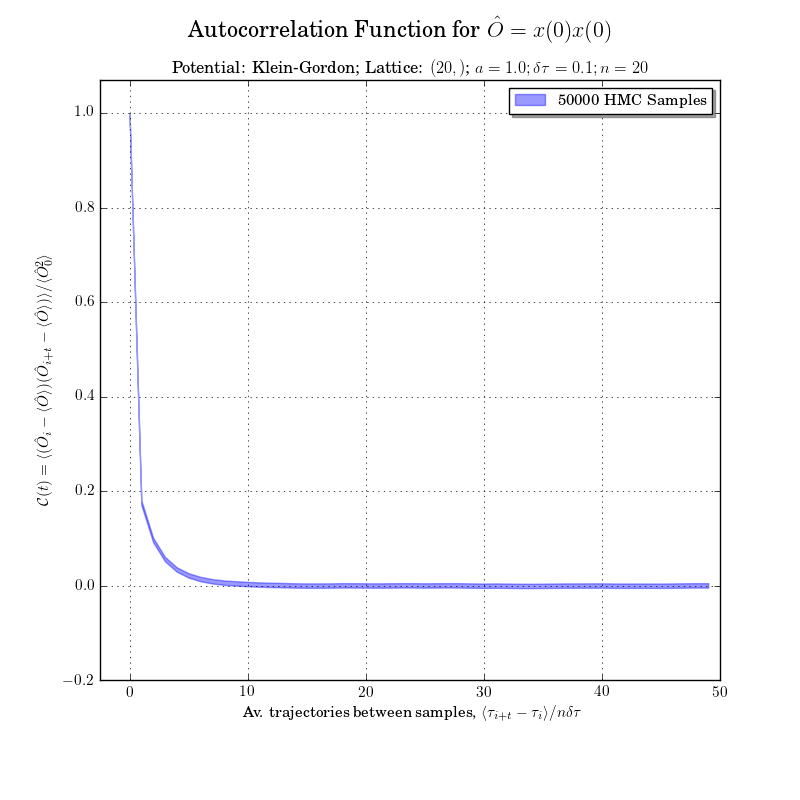
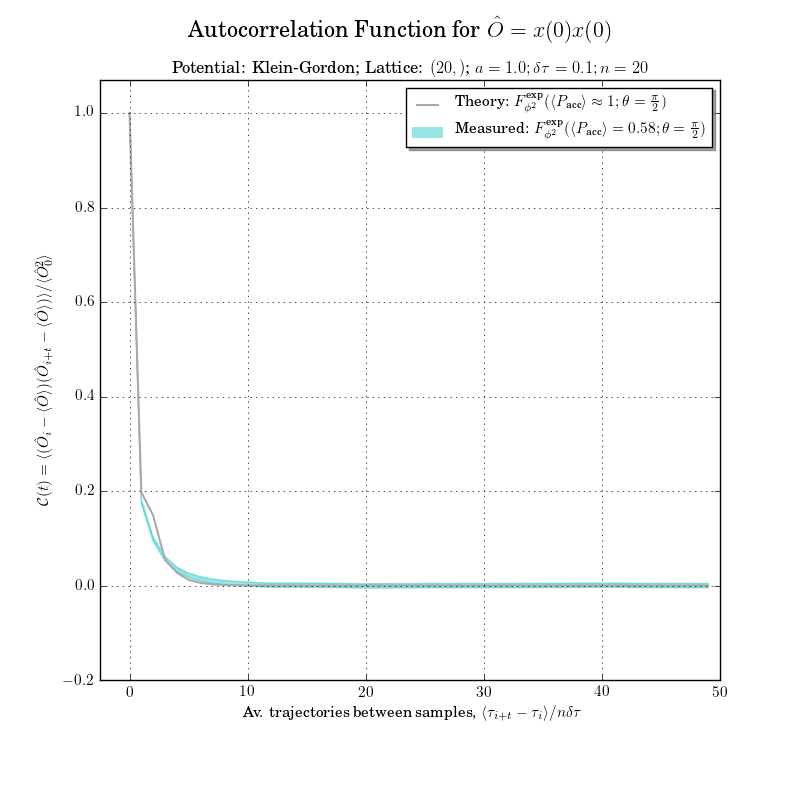
misc bug fxes
Former-commit-id: 71392d72723f1e0b7ab8e5e56c75bc3ffaf60ba9

diff --git a/theory/autocorrelations.py b/theory/autocorrelations.py
@@ -215,11 +215,20 @@ class M2_Exp(object):
         """
         
         if theta == .5*pi:
+            b2 = b**2
+            b3 = b**3
+            m2 = m**2
+            phi = m*tau
+            phi2 = phi**2
+            r2 = r**2
+            r3 = r**3
+            
             if pa > self.p_thresh:
-                numerator   = b**3 + 2*b**2*b + b*b**2 + 2*m**2*b
-                denominator = b**3 + 2*b*b**2 +(b**2 + 4*m**2)*b + 2*m**2*b
+                numerator   = r3 + 2*r2*b + r*b2 + 2*m2*r
+                denominator = b3 + 2*r*b2 +(r2 + 4*m2)*b + 2*m2*r
             else:
-                ValueError("Not implemented yet")
+                numerator   = b2*r + 2*r2*b + (4 - 2*pa)*phi2*r + r3
+                denominator = b3 + 2*r*b2 + (4*phi2 + 1)*r2*b + 2*pa*r3*phi2
         else:
             if pa > self.p_thresh:
                 ValueError("Not implemented yet")
@@ -227,7 +236,7 @@ class M2_Exp(object):
                 ValueError("Not implemented yet")
         return numerator / denominator
     
-    def setRoots(self, b, tau, m, pa, theta=.5*pi, verbose = True):
+    def setRoots(self, b, tau, m, pa, theta=.5*pi, verbose = False):
         """Laplace-transformed function
         
         Required Inputs
@@ -248,35 +257,32 @@ class M2_Exp(object):
         self.pa = pa
         
         if theta == .5*pi:
+            m2 = m**2
+            phi = m*tau
+            phi2 = phi**2
+            r2 = r**2
+            r3 = r**3
+            
             if pa > self.p_thresh:
-                numerator = [r, 2*r**2, 2*m**2*r+r**3]
-                denominator = [1, 2*r, r**2 + 4*m**2, 2*m**2*r]
-                
-                self.res, self.poles, self.const = tf2zpk(numerator, denominator)
-                self.roots = self.poles[:-1]
-                if verbose:
-                    display = lambda t, a, b: '\n{}: {}'.format(t, a, b)
-                    print display('Residues', self.res)
-                    print display('Poles', self.poles)
-                    print display('Constant', self.k)
+                numerator = [r, 2*r2, 2*m2*r + r3]
+                denominator = [1, 2*r, r2 + 4*m2, 2*m2*r]
             else:
-                ValueError("Work in Progress")
-                
-                numerator = [r, 2*r**2, 2*m**2*r+r**3]
-                denominator = [1, 2*r, r**2 + 4*m**2, 2*m**2*r]
-                
-                self.res, self.poles, self.const = tf2zpk(numerator, denominator)
-                self.roots = self.poles[:-1]
-                if verbose:
-                    display = lambda t, a, b: '\n{}: {}'.format(t, a, b)
-                    print display('Residues', self.res)
-                    print display('Poles', self.poles)
-                    print display('Constant', self.k)
+                numerator = [r, 2*r2, (4 - 2*pa)*phi2*r + r3]
+                denominator = [1, 2*r, (4*phi2 + 1)*r2, 2*pa*r3*phi2]
+            
+            # get the roots
+            self.res, self.poles, self.const = tf2zpk(numerator, denominator)
+            self.roots = self.poles[:-1]
+            if verbose:
+                display = lambda t, x: '\n{}: {}'.format(t, x)
+                print display('Residues', self.res)
+                print display('Poles', self.poles)
+                print display('Constant', self.const)
         else:
             if pa > self.p_thresh:
-                ValueError("Not implemented yet")
+                raise ValueError("Not implemented yet: pa > p_thresh & theta != pi/2")
             else:
-                ValueError("Not implemented yet")
+                raise ValueError("Not implemented yet: pa < p_thresh & theta != pi/2")
         return self.roots
     
     def eval(self, t, tau=None, m=None, pa=None, theta=None):
@@ -300,8 +306,8 @@ class M2_Exp(object):
             if theta is not None: self.theta = theta
             self.setRoots(self.tau, self.m, self.pa, self.theta)
         
-        
-        if self.theta==.5*pi:
+        pa = self.pa
+        if self.theta == .5*pi:
             if pa > self.p_thresh:
                 b1, b2 = self.roots
                 m, r = self.m, self.r
@@ -331,13 +337,14 @@ class M2_Exp(object):
                 
                 ans = t1*exp(b1*t) + t2*exp(b2*t) + t3*exp(-(2.*r+b1+b2)*t)
                 ans *= r/d
+                return real(ans)
             else:
-                ValueError("Not implemented yet")
+                print pa
+                raise ValueError("Not implemented yet: pa < p_thresh & theta == pi/2")
         else:
             if pa > self.p_thresh:
-                ValueError("Not implemented yet")
+                raise ValueError("Not implemented yet: pa > p_thresh & theta != pi/2")
             else:
-                ValueError("Not implemented yet")
+                raise ValueError("Not implemented yet: pa < p_thresh & theta != pi/2")
         
-        return real(ans)
 #

diff --git a/results/common/acorr.py b/results/common/acorr.py
@@ -1,6 +1,7 @@
 import numpy as np
 import matplotlib.pyplot as plt
 from matplotlib import colors
+from matplotlib.patches import Rectangle
 import random
 from scipy import stats
 
@@ -9,7 +10,7 @@ from correlations import acorr, corr, errors
 from models import Basic_GHMC as Model
 from utils import saveOrDisplay, prll_map
 from plotter import Pretty_Plotter, PLOT_LOC
-from theory.autocorrelations import 
+from theory.autocorrelations import M2_Exp
 
 def plot(acns, lines, subtitle, op_name, save):
     """Plots the two-point correlation function
@@ -45,18 +46,19 @@ def plot(acns, lines, subtitle, op_name, save):
     
     clist = [i for i in colors.ColorConverter.colors if i != 'w']
     colour = (i for i in random.sample(clist, len(clist)))
-    for label, line in lines.iteritems():
-        c = next(colour)
-        ax[0].plot(*line, linestyle='-', linewidth=2., alpha=0.4, label=label, color = c)
-    
     for label, (x, y, e) in acns.iteritems():
         c = next(colour)
         # ax[0].plot(x, y, alpha=0.4, label=label, color = c)#, marker='x', s=3)
+        p2 = ax[0].add_patch(Rectangle((0, 0), 0, 0, fc=c, linewidth=0, alpha=.4, label=label))
         ax[0].fill_between(x, y-e, y+e, color=c, alpha=0.4, label=label)
         # ax[0].errorbar(x, y, yerr=e, c=c, ecolor='k', ms=3, fmt='o', alpha=0.5,
         #     label=label)
-    # for label, stem in stems.iteritems():
-    #     ax[0].stem(*stem, markerfmt='o', linefmt='k:', basefmt='k-',label=label)
+    
+    darkclist = [i for i in colors.cnames if 'dark' in i]
+    darkcolour = (i for i in random.sample(darkclist, len(darkclist)))
+    for label, line in lines.iteritems():
+        dc = next(darkcolour)
+        ax[0].plot(*line, linestyle='-', linewidth=1.5, alpha=1, label=label, color = dc)
     
     xi,xf = ax[0].get_xlim()
     ax[0].set_xlim(xmin=xi-0.05*(xf-xi)) # give a decent view of the first point
@@ -103,6 +105,8 @@ def main(x0, pot, file_name,
         pot.name, x0.shape, spacing, step_size, n_steps)
     
     print 'Running Model: {}'.format(file_name)
+    if not isinstance(separations, np.ndarray): separations = np.asarray(separations)
+    
     def coreFunc(a):
         """runs the below for an angle, a"""
         i,a = a
@@ -121,7 +125,12 @@ def main(x0, pot, file_name,
         # get parameters generated
         p = c.model.p_acc
         xx = c.op_mean
-        return xx, acns, acns_err, p
+        
+        m = M2_Exp(tau = step_size*n_steps, m = 1, pa = p)
+        f = m.eval(separations)
+        f /= f[0]
+        print 'Finished Running Model: {}'.format(file_name)
+        return xx, acns, acns_err, p, f
     
     # use multiprocessing
     out = lambda p,x,a: '> measured at angle:{:3.1f}: <x(0)x(0)> = {}; <P_acc> = {:4.2f}'.format(a,x,p)
@@ -132,16 +141,15 @@ def main(x0, pot, file_name,
     else:
         ans = prll_map(coreFunc, zip(range(al), mixing_angles), verbose=False)
     
-    xx, acns, acns_err, ps = zip(*ans) # unpack from multiprocessing
+    xx, acns, acns_err, ps, fs = zip(*ans) # unpack from multiprocessing
     
     print '\n'*al # hack to avoid overlapping!
     for p, x, a in zip(ps, xx, mixing_angles):
         print out(p,x,a)
     
     # create dictionary for plotting
-    acns = {l:(separations, y, e) for y,e,l in zip(acns, acns_err, angle_labels)}
-    
-    print 'Finished Running Model: {}'.format(file_name)
+    acns = {r'Measured: $F^{\text{exp}}_{\phi^2}(\langle P_{\text{acc}}\rangle'+r'={:4.2f}; '.format(p)+r'\theta = {})$'.format(l):(separations, y, e) for y,e,l,p in zip(acns, acns_err, angle_labels, ps)}
+    lines = {r'Theory: $F^{\text{exp}}_{\phi^2}(\langle P_{\text{acc}}\rangle \approx 1; '+r'\theta = {})$'.format(l):(separations, f) for f,l in zip(fs, angle_labels)}
     
     all_plot = {'acns':acns, 'lines':lines, 'subtitle':subtitle, 'op_name':op_name}
     store.store(all_plot, file_name, '_allPlot')

diff --git a/test/test_momentum.py b/test/test_momentum.py
@@ -29,24 +29,25 @@ class Test(object):
             outcome = passed,
             details = {
                 'original array: {}'.format(np.bmat([[p],[self.noise]])):[],
-                'rotation matrix: {}'.format(self.m.rot):[],
+                #'rotation matrix: {}'.format(self.m.rot):[],
                 'mix + flip: {}'.format(self.mixed):[],
                 'expected: {}'.format(expected):[]
                 })
             pass
         
-        p14 = np.mat([[1.,7.,-1., 400.]])
-        self.noise = np.mat([[0.1, 3., 1., -2]])
+        p14 = np.asarray([[1.,7.,-1., 400.]])
+        self.noise = np.asarray([[0.1, 3., 1., -2]])
         
-        expected_0 = np.mat([[-1., -7., 1., -400.,-0.1, -3., -1., 2.]])
-        expected_halfpi = np.mat([[-0.1, -3., -1., 2., 1., 7., -1., 400.]])
+        expected_0 = np.asarray([[-1., -7., 1., -400.,-0.1, -3., -1., 2.]])
+        expected_halfpi = np.asarray([[-0.1, -3., -1., 2., 1., 7., -1., 400.]])
         expected_pi = -expected_0
-        expected_quartpi = np.mat( [[-0.778, -7.071,  0.,   -281.428,
+        expected_quartpi = np.asarray( [[-0.778, -7.071,  0.,   -281.428,
                                       0.636,  2.828, -1.414, 284.257]])
-        expected_0 = expected_0.T
-        expected_halfpi = expected_halfpi.T
-        expected_pi = expected_pi.T
-        expected_quartpi = expected_quartpi.T
+        
+        expected_0 = expected_0.flatten()[:4]
+        expected_halfpi = expected_halfpi.flatten()[:4]
+        expected_pi = expected_pi.flatten()[:4]
+        expected_quartpi = expected_quartpi.flatten()[:4]
         
         self.mixed = self.m._refresh(p14, self.noise, theta = 0.)
         passed = (np.around(self.mixed, 3) == expected_0).all()
@@ -91,7 +92,7 @@ class Test(object):
             outcome = passed,
             details = {
                 'original array: {}'.format(np.bmat([[p],[self.m.noise]])):[],
-                'rotation matrix: {}'.format(self.m.rot):[],
+                # 'rotation matrix: {}'.format(self.m.rot):[],
                 'mix + flip: {}'.format(p_mixed):[],
                 })
         

diff --git a/models.py b/models.py
@@ -43,8 +43,14 @@ class Base(object):
             n_steps = self.n_steps,
             rand_steps = self.rand_steps)
         
+        if hasattr(self, 'accept_kwargs'):
+            if 'get_accept_rates' not in self.accept_kwargs:
+                self.accept_kwargs['get_accept_rates'] = True
+        else:
+            self.accept_kwargs = {'get_accept_rates':True}
+            
         self.sampler = Hybrid_Monte_Carlo(self.x0, dynamics, self.pot, self.rng,
-            accept_kwargs = {'get_accept_rates':True})
+            accept_kwargs = self.accept_kwargs)
         pass
 #
 class Basic_HMC(Init, Base):
@@ -70,6 +76,7 @@ class Basic_HMC(Init, Base):
             'n_steps': 20,
             'rand_steps':False
         }
+        
         self.initDefaults(kwargs)
         self._getInstances()
         pass

diff --git a/results/common/acceptance.py b/results/common/acceptance.py
@@ -1,5 +1,6 @@
 # -*- coding: utf-8 -*- 
 import numpy as np
+from scipy.special import j0, jn, erfc
 import matplotlib.pyplot as plt
 from matplotlib import colors
 import random
@@ -95,7 +96,7 @@ def main(x0, pot, file_name, n_rng, n_samples = 1000, n_burn_in = 25, step_size 
             n_steps :: int :: the number of LF steps
         """
         
-        model = Model(x0.copy(), pot, step_size=step_size, n_steps=n_steps)
+        model = Model(x0.copy(), pot, step_size=step_size, n_steps=n_steps, accept_kwargs={'get_delta_hs':True})
         model.sampler.accept.store_acceptance = True
         
         prob = 1.

diff --git a/hmc/common.py b/hmc/common.py
@@ -12,11 +12,16 @@ class Init(object):
         Expectations
             has an attribute of self.defaults to check against
         """
+        
         for k,v in self.defaults.iteritems():
             if k in kwargs: # use assigned values
                 setattr(self, k, kwargs[k])
             else: # use default values
-                setattr(self, k, self.defaults[k])
+                setattr(self, k, v)
+        
+        for k,v in kwargs.iteritems():
+            if k not in self.defaults:
+                setattr(self, k, v)
         pass
     
     def initArgs(self, args):

diff --git a/hmc/lattice.py b/hmc/lattice.py
@@ -128,7 +128,7 @@ def laplacian(lattice, position, a_power=0):
     lap = lap.sum()
     
     # multiply by approciate power of lattice spacing
-    if a_power: lap /= lattice.lattice_spacing**a_power
+    if a_power: lap = lap / lattice.lattice_spacing**a_power
     
     return lap
 
@@ -184,7 +184,7 @@ def gradSquared(lattice, position, a_power=0):
     grad = (forwards**2).sum()
     
     # lattice spacing
-    if a_power: grad /= lattice.lattice_spacing**a_power
+    if a_power: grad = grad / 1.0**a_power
     
     return grad
     

diff --git a/hmc/metropolis.py b/hmc/metropolis.py
@@ -18,12 +18,13 @@ class Accept_Reject(Init):
             'accept_all':False,
             'store_acceptance':False
             }
-            
+        
         # these are the plurals (+'s') of each paramter
         # we want to record
         self.store = ['accept_rates', 'accept_rejects',
             'delta_hs', 'h_olds', 'h_news']
         for k in self.store: self.defaults['get_'+k] = False
+        
         self.initDefaults(kwargs)
         
         # legacy code to support prev versions

diff --git a/results/acorr_xx_khmc_kg.py b/results/acorr_xx_khmc_kg.py
@@ -20,11 +20,11 @@ c_len     = 200
 mixing_angles = 1/np.asarray([8, 6, 4, 3, 2], dtype='float64')*np.pi
 angle_labels = [
     # r'$\theta = \pi/10$',
-    r'KHMC for $\theta = \pi/8$',
-    r'KHMC for $\theta = \pi/6$',
-    r'KHMC for $\theta = \pi/4$',
-    r'KHMC for $\theta = \pi/3$',
-    r'KHMC for $\theta = \pi/2$'
+    r'\pi/8',
+    r'\pi/6',
+    r'\pi/4',
+    r'\pi/3',
+    r'\pi/2'
 ]
 
 separations = range(c_len)

diff --git a/results/acorr_xx_hmc_kg.py b/results/acorr_xx_hmc_kg.py
@@ -18,7 +18,7 @@ n_steps   =  20
 c_len     = 50
 
 mixing_angles = 1/np.arange(2,0,-2, dtype='float64')*np.pi
-angle_labels = [r'{} HMC Samples'.format(n_samples)]
+angle_labels = [r'\frac{\pi}{2}']
 
 separations = range(c_len)
 opFn = lambda samples: twoPoint(samples, separation=0)

diff --git a/results/acceptance_hmc1dfree.py b/results/acceptance_hmc1dfree.py
@@ -15,4 +15,4 @@ x0 = np.random.random((n,)*dim)
 if __name__ == '__main__':
     n_rng = np.arange(1, 41, 1)
     acceptance.main(x0, pot, file_name, n_rng, 
-      n_samples = 10000, step_size = .2, save = True)
+      n_samples = 1000, step_size = .2, save = False)

diff --git a/theory/__init__.py b/theory/__init__.py
@@ -1,1 +1,3 @@
 # nothing to see here
+import autocorrelations
+import dynamics
